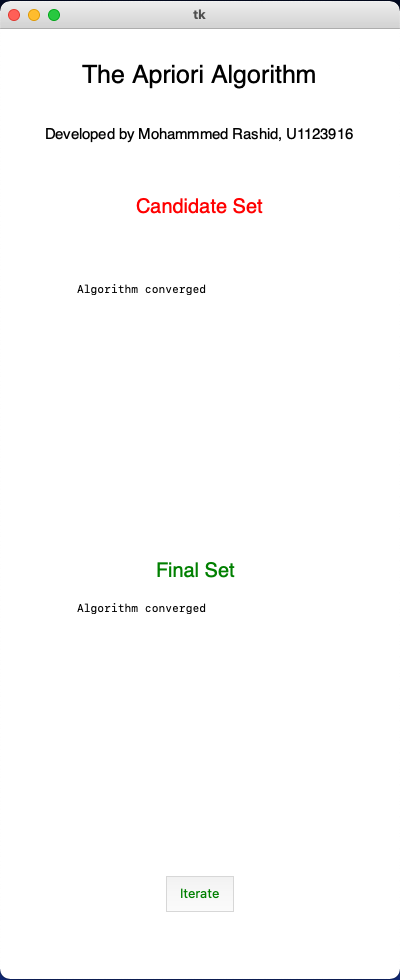
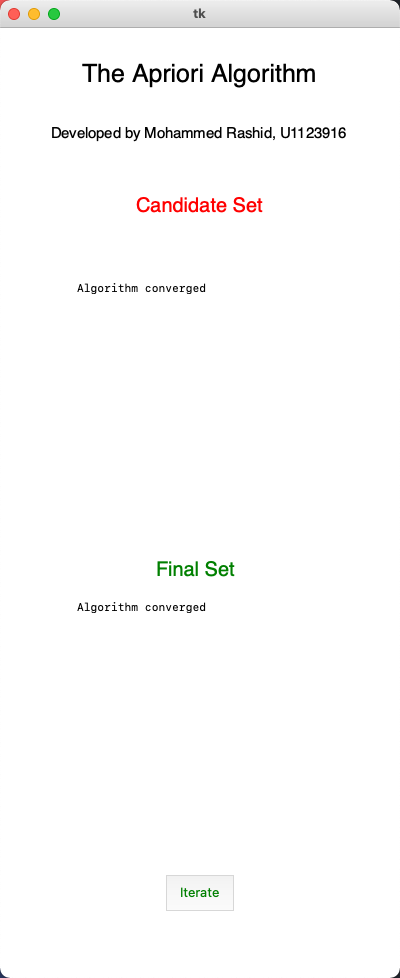
updated name

diff --git a/apriori-UI.py b/apriori-UI.py
@@ -431,7 +431,7 @@ root.geometry('400x950')
 label = Label(root, text="The Apriori Algorithm", font=("Helvetica", 25), justify=CENTER, height=3)
 label.pack()
 
-label = Label(root, text="Developed by Mohammmed Rashid, U1123916", font=("Helvetica", 15), justify=CENTER)
+label = Label(root, text="Developed by Mohammed Rashid, U1123916", font=("Helvetica", 15), justify=CENTER)
 label.pack()
 
 

diff --git a/kmeansUI.py b/kmeansUI.py
@@ -206,7 +206,7 @@ label1 = tk.Label(root, text="K-Means Clustering")
 label1.config(font=('helvetica', 20, 'bold'))
 canvas1.create_window(200, 50, window=label1)
 
-name = tk.Label(root, text="Developed by Mohammmed Rashid, U1123916")
+name = tk.Label(root, text="Developed by Mohammed Rashid, U1123916")
 name.config(font=('helvetica', 15))
 canvas1.create_window(200, 100, window=name)
 

diff --git a/README.md b/README.md
@@ -75,7 +75,11 @@ You should see the first screen of the application.
 ### Step 2:
 Click on the **Iterate** button to see apriori in action. Keep clicking on the button until the algorithm converges.
 
-<img src="Converged.png">
+<div style="display: flex;">
+    <img src="Itemsets.png">
+    <img src="Converged.png">
+</div>
+
 
 
 <br/>
